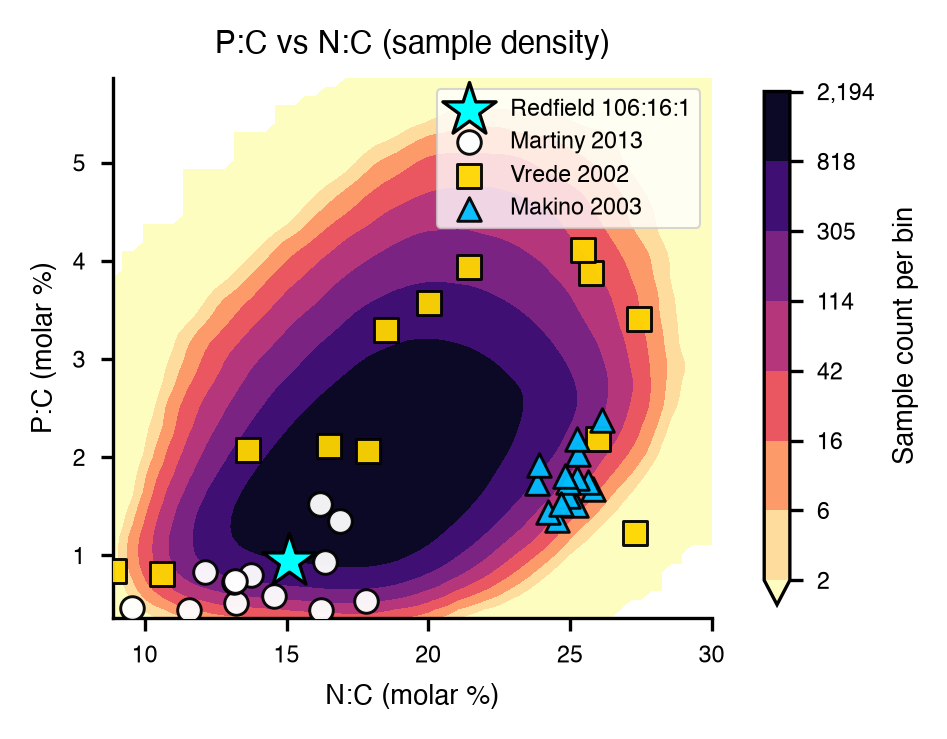
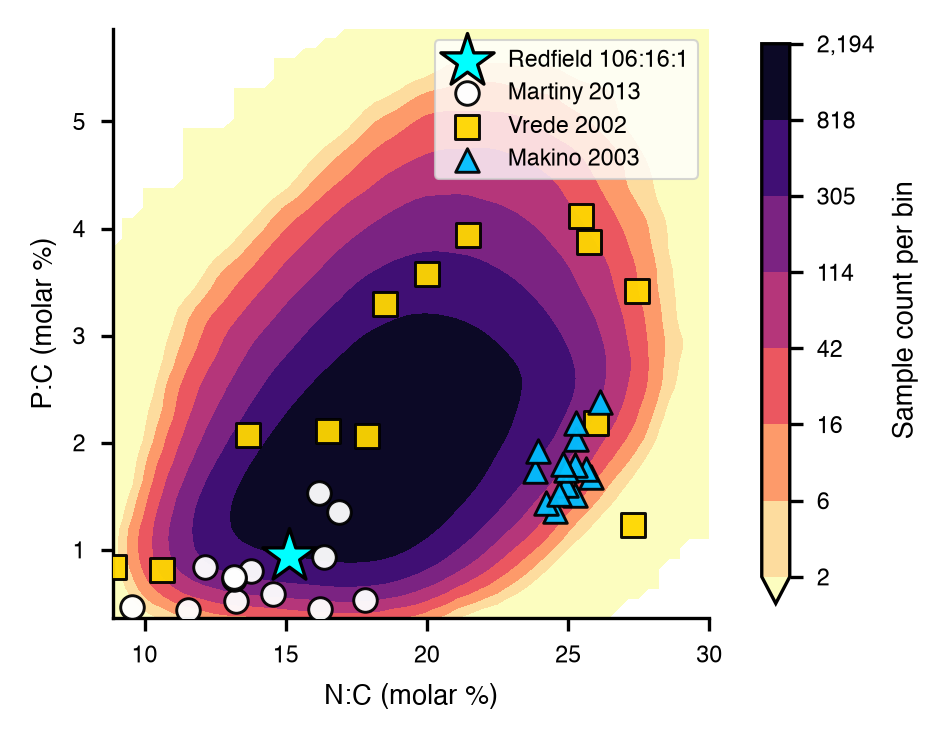
Remove titles from both elemental stoichiometry plots

diff --git a/scripts/plot_elemental_stoich_contour.py b/scripts/plot_elemental_stoich_contour.py
@@ -64,7 +64,6 @@ def plot_elemental_stoichiometry_contour(
     # a low threshold (a small fraction of peak density).
     #ax.contour(x_centers, y_centers, density, levels=[density.max() * 1e-3], colors="black", linewidths=1.2)
 
-    ax.set_title("P:C vs N:C (sample density)")
     ax.set_xlabel("N:C (molar %)")
     ax.set_ylabel("P:C (molar %)")
 

diff --git a/scripts/plot_elemental_stoich.py b/scripts/plot_elemental_stoich.py
@@ -40,7 +40,6 @@ def plot_elemental_stoichiometry(
         mincnt=1,
         cmap="magma",
     )
-    ax.set_title("P:C vs N:C")
     ax.set_xlabel("N:C (molar %)")
     ax.set_ylabel("P:C (molar %)")
 
